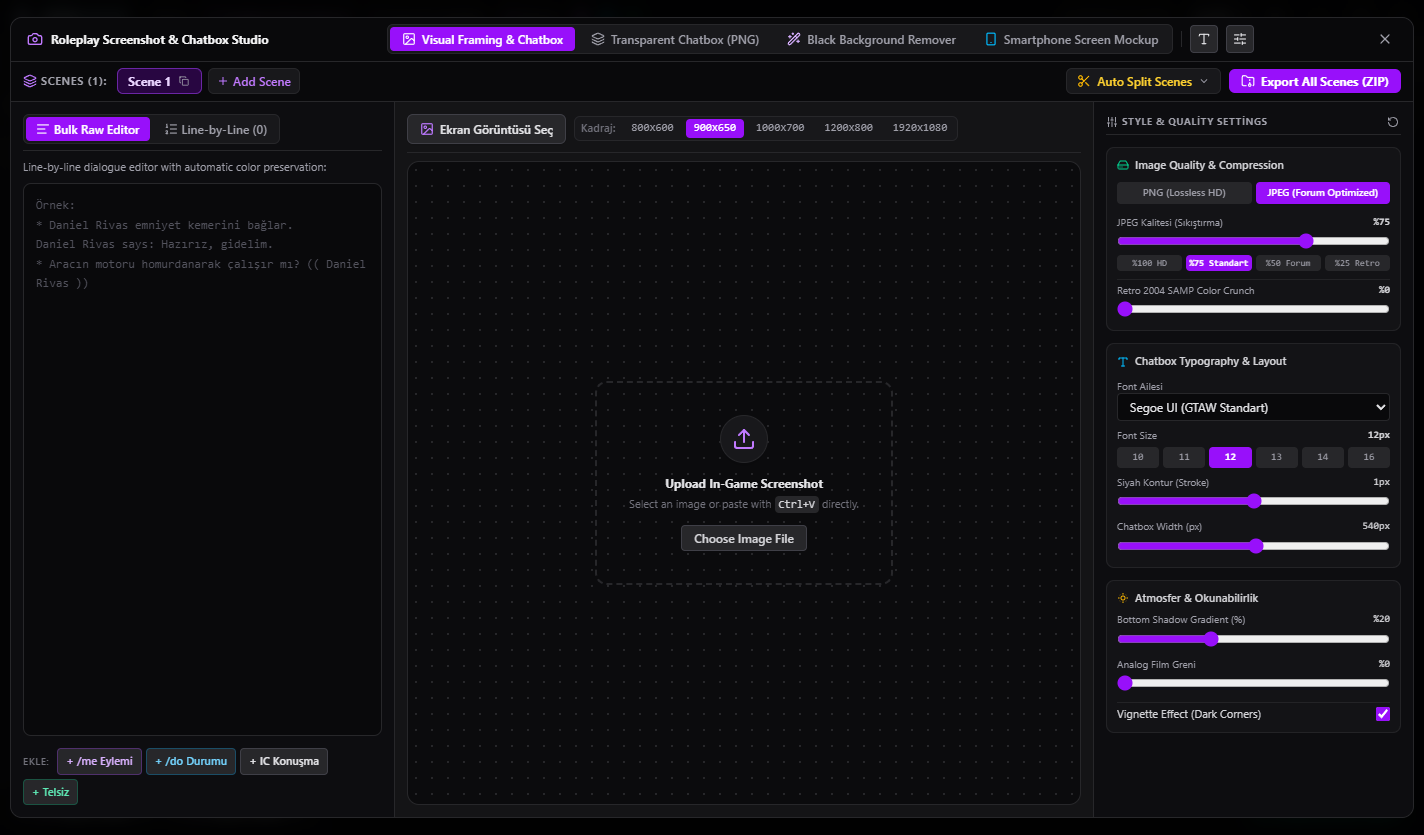
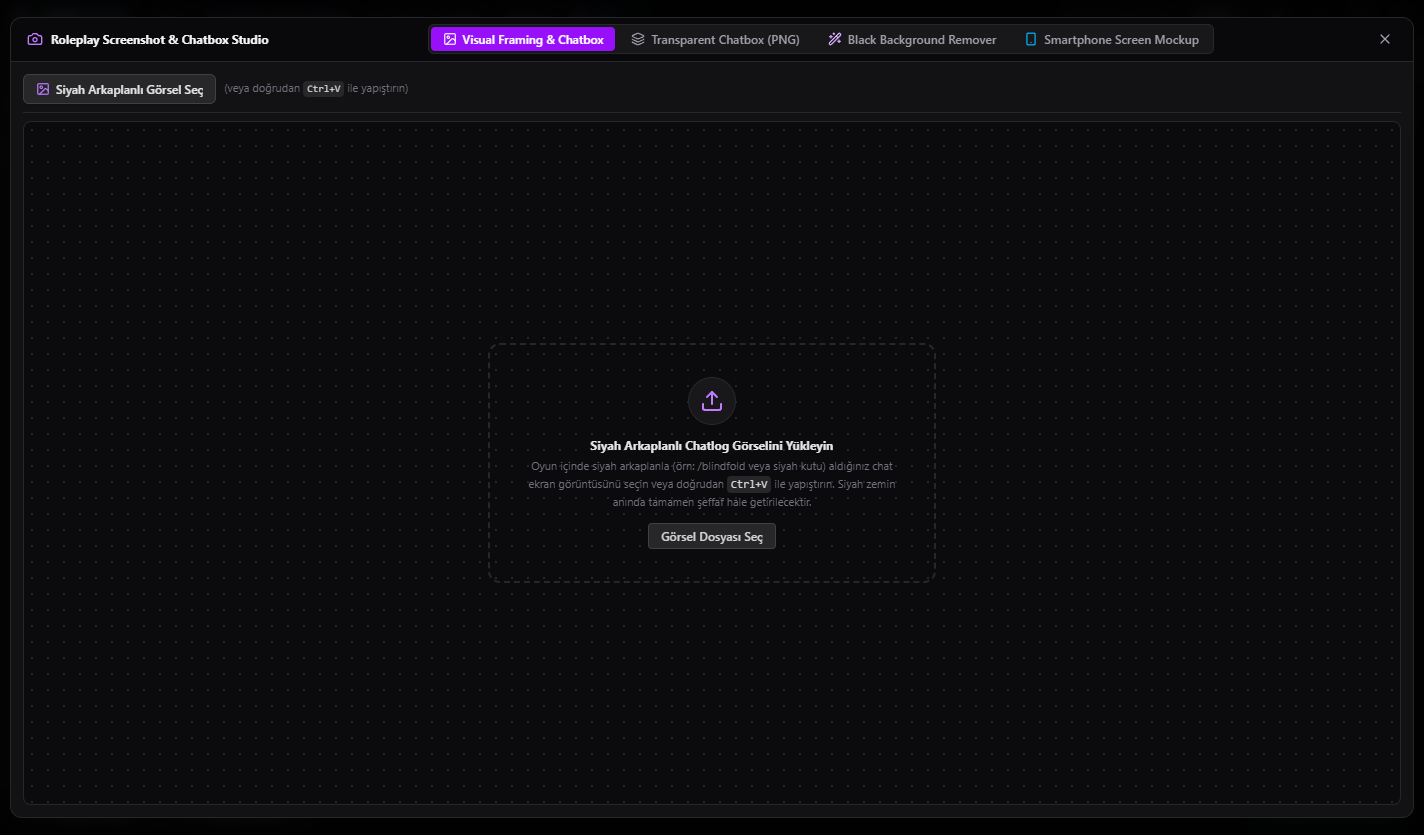
fix(ssmaker & feedback): complete internationalization of SS Studio controls, eliminate all emojis from feedback template, and regenerate all screenshots

diff --git a/src/i18n/translations.ts b/src/i18n/translations.ts
@@ -19,6 +19,8 @@ export const SUPPORTED_LANGUAGES: LanguageInfo[] = [
 export const translations = {
   en: {
 
+
+
     // Titlebar
     app_title: 'GTAW Log Studio',
     check_updates: 'Check for Updates',
@@ -352,8 +354,20 @@ export const translations = {
     lw_alert_cant_copy: "Failed to copy image to clipboard.",
     zoom_in: "Zoom In",
     zoom_out: "Zoom Out",
+    ss_atmosphere_readability: "Atmosphere & Readability",
+    pe_add_label: "Insert",
+    pe_action_label: "Action",
+    pe_environment_label: "Environment",
+    pe_speech_label: "Dialogue",
+    pe_radio_label: "Radio",
+    pe_sample_dialogue: "* Detective Hayes adjusts his ballistic vest.\\nDetective Hayes says: Area is secure, let\\'s move.\\n* Does the vehicle engine start with a low rumble? (( Detective Hayes ))",
+    pcm_copied: "Copied to clipboard!",
+    pcm_copy_ss: "Copy Phone Screenshot",
+    online: "Online",
   },
   tr: {
+
+
 
     // Titlebar
     app_title: 'GTAW Log Studio',
@@ -688,8 +702,20 @@ export const translations = {
     lw_alert_cant_copy: "Görsel panoya kopyalanamadı.",
     zoom_in: "Büyüt",
     zoom_out: "Küçült",
+    ss_atmosphere_readability: "Atmosfer & Okunabilirlik",
+    pe_add_label: "Ekle",
+    pe_action_label: "Eylemi",
+    pe_environment_label: "Durumu",
+    pe_speech_label: "Konuşma",
+    pe_radio_label: "Telsiz",
+    pe_sample_dialogue: "* Daniel Rivas emniyet kemerini bağlar.\\nDaniel Rivas says: Hazırız, gidelim.\\n* Aracın motoru homurdanarak çalışır mı? (( Daniel Rivas ))",
+    pcm_copied: "Panoya kopyalandı!",
+    pcm_copy_ss: "Telefon SS Kopyala",
+    online: "Çevrimiçi",
   },
   ru: {
+
+
 
     // Titlebar
     app_title: 'GTAW Log Studio',
@@ -1024,8 +1050,20 @@ export const translations = {
     lw_alert_cant_copy: "Не удалось скопировать изображение в буфер обмена.",
     zoom_in: "Увеличить",
     zoom_out: "Уменьшить",
+    ss_atmosphere_readability: "Атмосфера и читаемость",
+    pe_add_label: "Вставить",
+    pe_action_label: "Действие",
+    pe_environment_label: "Окружение",
+    pe_speech_label: "Диалог",
+    pe_radio_label: "Рация",
+    pe_sample_dialogue: "* Detective Hayes поправляет бронежилет.\\nDetective Hayes says: Периметр чист, выдвигаемся.\\n* Двигатель заводится с глухим рычанием? (( Detective Hayes ))",
+    pcm_copied: "Скопировано в буфер!",
+    pcm_copy_ss: "Копировать скриншот телефона",
+    online: "В сети",
   },
   fr: {
+
+
 
     // Titlebar
     app_title: 'GTAW Log Studio',
@@ -1360,6 +1398,16 @@ export const translations = {
     lw_alert_cant_copy: "Impossible de copier l'image dans le presse-papiers.",
     zoom_in: "Agrandir",
     zoom_out: "Réduire",
+    ss_atmosphere_readability: "Atmosphère et lisibilité",
+    pe_add_label: "Insérer",
+    pe_action_label: "Action",
+    pe_environment_label: "Environnement",
+    pe_speech_label: "Dialogue",
+    pe_radio_label: "Radio",
+    pe_sample_dialogue: "* Detective Hayes ajuste son gilet pare-balles.\\nDetective Hayes says: Le périmètre est sécurisé, on y va.\\n* Le moteur démarre-t-il avec un grondement sourd ? (( Detective Hayes ))",
+    pcm_copied: "Copié dans le presse-papiers !",
+    pcm_copy_ss: "Copier la capture du téléphone",
+    online: "En ligne",
   },
   es: {
     // Titlebar

diff --git a/src/components/ssmaker/SSMakerModal.tsx b/src/components/ssmaker/SSMakerModal.tsx
@@ -450,7 +450,7 @@ export const SSMakerModal: React.FC<SSMakerModalProps> = ({
                     {config.exportFormat === 'jpeg' && (
                       <div className="space-y-1 pt-1">
                         <div className="flex justify-between text-[10px]">
-                          <span className="text-zinc-400">JPEG Kalitesi (Sıkıştırma)</span>
+                          <span className="text-zinc-400">{t('ss_quality_label')}</span>
                           <span className="text-zinc-300 font-mono font-bold">%{config.compressionQuality}</span>
                         </div>
                         <input
@@ -508,7 +508,7 @@ export const SSMakerModal: React.FC<SSMakerModalProps> = ({
                     </span>
 
                     <div className="space-y-1">
-                      <label className="text-zinc-400 text-[10px]">Font Ailesi</label>
+                      <label className="text-zinc-400 text-[10px]">{t('ss_font_family')}</label>
                       <select
                         value={config.fontFamily}
                         onChange={(e) =>
@@ -543,7 +543,7 @@ export const SSMakerModal: React.FC<SSMakerModalProps> = ({
 
                     <div className="space-y-1">
                       <div className="flex justify-between text-[10px]">
-                        <span className="text-zinc-400">Siyah Kontur (Stroke)</span>
+                        <span className="text-zinc-400">{t('ss_stroke')}</span>
                         <span className="text-zinc-300 font-mono">{config.strokeWidth}px</span>
                       </div>
                       <input
@@ -578,7 +578,7 @@ export const SSMakerModal: React.FC<SSMakerModalProps> = ({
                     </div>
                   </div>
 
-                  {/* 🌗 Atmosfer & Okunabilirlik Sürgüleri */}
+                  {/* 🌗 {t('ss_atmosphere_readability')} Sürgüleri */}
                   <div className="space-y-2 bg-zinc-900/60 border border-zinc-800/80 p-2.5 rounded-lg">
                     <span className="font-semibold text-zinc-300 text-[11px] flex items-center gap-1.5">
                       <SunMedium className="w-3 h-3 text-amber-400" />
@@ -604,7 +604,7 @@ export const SSMakerModal: React.FC<SSMakerModalProps> = ({
 
                     <div className="space-y-1">
                       <div className="flex justify-between text-[10px]">
-                        <span className="text-zinc-400">Analog Film Greni</span>
+                        <span className="text-zinc-400">{t('ss_grain_amount')}</span>
                         <span className="text-zinc-300 font-mono">%{config.grainAmount}</span>
                       </div>
                       <input

diff --git a/src/components/ssmaker/ParagraphEditor.tsx b/src/components/ssmaker/ParagraphEditor.tsx
@@ -138,36 +138,36 @@ export const ParagraphEditor: React.FC<ParagraphEditorProps> = ({
           <textarea
             value={rawParagraphText}
             onChange={(e) => handleParagraphChange(e.target.value)}
-            placeholder="Örnek:&#10;* Daniel Rivas emniyet kemerini bağlar.&#10;Daniel Rivas says: Hazırız, gidelim.&#10;* Aracın motoru homurdanarak çalışır mı? (( Daniel Rivas ))"
+            placeholder={t('pe_sample_dialogue')}
             className="flex-1 bg-zinc-950 border border-zinc-800 rounded-lg p-3 text-xs text-zinc-200 font-mono leading-relaxed placeholder-zinc-600 focus:outline-none focus:border-purple-500 transition-colors resize-none select-text"
           />
 
           {/* Hızlı Şablon Butonları */}
           <div className="flex flex-wrap items-center gap-1 pt-1">
-            <span className="text-[10px] text-zinc-500 uppercase tracking-wider font-semibold mr-1">Ekle:</span>
+            <span className="text-[10px] text-zinc-500 uppercase tracking-wider font-semibold mr-1">{t('pe_add_label')}:</span>
             <button
               onClick={() => handleInsertQuickTemplate('* Karakter_Adı bir eylem gerçekleştirir.')}
               className="px-2 py-1 rounded bg-zinc-800 hover:bg-zinc-700 text-purple-300 text-[11px] font-medium border border-purple-500/30"
             >
-              + /me Eylemi
+              + /me {t('pe_action_label')}
             </button>
             <button
               onClick={() => handleInsertQuickTemplate('* Çevre durumu veya soru? (( Karakter_Adı ))')}
               className="px-2 py-1 rounded bg-zinc-800 hover:bg-zinc-700 text-sky-300 text-[11px] font-medium border border-sky-500/30"
             >
-              + /do Durumu
+              + /do {t('pe_environment_label')}
             </button>
             <button
               onClick={() => handleInsertQuickTemplate('Karakter_Adı says: Konuşma metni.')}
               className="px-2 py-1 rounded bg-zinc-800 hover:bg-zinc-700 text-zinc-200 text-[11px] font-medium border border-zinc-700"
             >
-              + IC Konuşma
+              + IC {t('pe_speech_label')}
             </button>
             <button
               onClick={() => handleInsertQuickTemplate('[R: 91.1] Karakter_Adı: Telsiz anonsu.')}
               className="px-2 py-1 rounded bg-zinc-800 hover:bg-zinc-700 text-emerald-300 text-[11px] font-medium border border-emerald-500/30"
             >
-              + Telsiz
+              + {t('pe_radio_label')}
             </button>
           </div>
         </div>

diff --git a/src/components/ssmaker/PhoneChatMockup.tsx b/src/components/ssmaker/PhoneChatMockup.tsx
@@ -88,7 +88,7 @@ export const PhoneChatMockup: React.FC<PhoneChatMockupProps> = ({ lines }) => {
           <span className="text-xs font-bold text-zinc-200">Telefon Ekranı Mockup</span>
 
           <div className="flex items-center gap-1 ml-3 bg-zinc-950 border border-zinc-800 rounded px-2 py-0.5 text-xs">
-            <span className="text-zinc-500 text-[10px]">Kişi:</span>
+            <span className="text-zinc-500 text-[10px]">{t('pcm_contact')}:</span>
             <input
               type="text"
               value={contactName}
@@ -115,7 +115,7 @@ export const PhoneChatMockup: React.FC<PhoneChatMockupProps> = ({ lines }) => {
             className="flex items-center gap-1.5 px-3.5 py-1.5 rounded-md bg-purple-600 hover:bg-purple-500 text-white text-xs font-semibold shadow-sm transition-colors"
           >
             {copied ? <Check className="w-3.5 h-3.5" /> : <Copy className="w-3.5 h-3.5" />}
-            <span>{copied ? 'Panoya Kopyalandı!' : 'Telefon SS Kopyala'}</span>
+            <span>{copied ? t('pcm_copied') : t('pcm_copy_ss')}</span>
           </button>
 
           <button
@@ -124,7 +124,7 @@ export const PhoneChatMockup: React.FC<PhoneChatMockupProps> = ({ lines }) => {
             className="flex items-center gap-1.5 px-3 py-1.5 rounded-md bg-zinc-800 hover:bg-zinc-700 text-zinc-200 text-xs font-semibold border border-zinc-700 transition-colors"
           >
             <Download className="w-3.5 h-3.5 text-emerald-400" />
-            <span>PNG İndir</span>
+            <span>{t('pcm_export')}</span>
           </button>
         </div>
       </div>
@@ -160,7 +160,7 @@ export const PhoneChatMockup: React.FC<PhoneChatMockupProps> = ({ lines }) => {
               </div>
               <div>
                 <h4 className="font-bold text-xs text-zinc-100 leading-none">{contactName}</h4>
-                <span className="text-[10px] text-emerald-400">Çevrimiçi</span>
+                <span className="text-[10px] text-emerald-400">{t('online')}</span>
               </div>
             </div>
 

diff --git a/src/components/modals/FeedbackModal.tsx b/src/components/modals/FeedbackModal.tsx
@@ -37,18 +37,28 @@ export const FeedbackModal: React.FC<FeedbackModalProps> = ({
 
   // GitHub Issue Markdown Şablonu
   const generateIssueMarkdown = () => {
-    const typeLabel = feedbackType === 'bug' ? 'Bug Report / Hata Bildirimi' : feedbackType === 'feature' ? 'Feature Request / Özellik Önerisi' : 'General Feedback / Görüş';
-    
-    return `### 📌 Type: ${typeLabel}
+    const typeLabel =
+      feedbackType === 'bug'
+        ? t('feedback_type_bug')
+        : feedbackType === 'feature'
+        ? t('feedback_type_feature')
+        : t('feedback_type_general');
 
-**Summary / Özet:**
+    const summaryHeading = language === 'tr' ? 'Özet' : 'Summary';
+    const detailsHeading = language === 'tr' ? 'Açıklama & Detaylar' : 'Description & Details';
+    const envHeading = language === 'tr' ? 'Sistem & Çevre Bilgileri' : 'Environment & System Specs';
+    const typeHeading = language === 'tr' ? 'Bildirim Türü' : 'Type';
+
+    return `### ${typeHeading}: ${typeLabel}
+
+**${summaryHeading}:**
 ${title || 'No title provided'}
 
-**Description & Details / Açıklama:**
+**${detailsHeading}:**
 ${description || 'No description provided'}
 
 ---
-### 🖥 Environment / Sistem Bilgileri
+### ${envHeading}
 - **App Version:** v${appVersion}
 - **Environment:** ${envInfo}
 - **OS / Platform:** ${osInfo}

diff --git a/src/components/watcher/LiveWatcherModal.tsx b/src/components/watcher/LiveWatcherModal.tsx
@@ -93,10 +93,10 @@ export const LiveWatcherModal: React.FC<LiveWatcherModalProps> = ({
               <div className="pt-3 border-t border-zinc-800">
                 <div className="flex items-center gap-2 text-zinc-400 text-xs font-semibold mb-1">
                   <Terminal className="w-3.5 h-3.5 text-indigo-400" />
-                  {language === 'tr' ? 'Masaüstü Otomatik Bulucu (Alternatif Python Aracı)' : 'Desktop Auto Detector (Python Helper)'}
+                  {t('lw_helper_title')}
                 </div>
                 <p className="text-[11px] text-zinc-500 leading-relaxed">
-                  {language === 'tr' ? 'İsterseniz python server/watcher.py komutu ile FiveM dizinini arka planda tam otomatik olarak da izletebilirsiniz.' : 'You can also automatically monitor FiveM directory in background via python server/watcher.py.'}
+                  {t('lw_helper_desc')}
                 </p>
               </div>
             </div>
